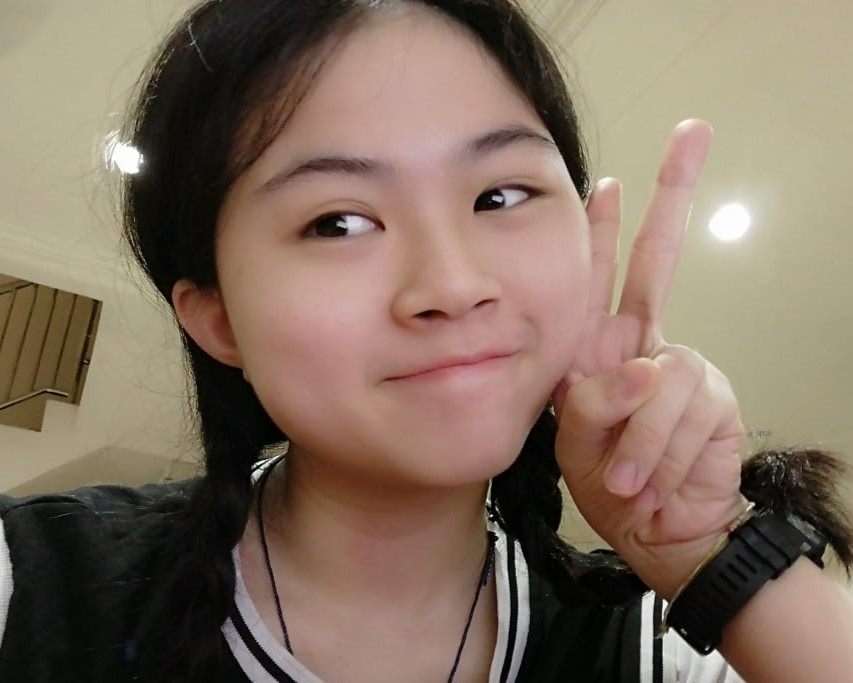
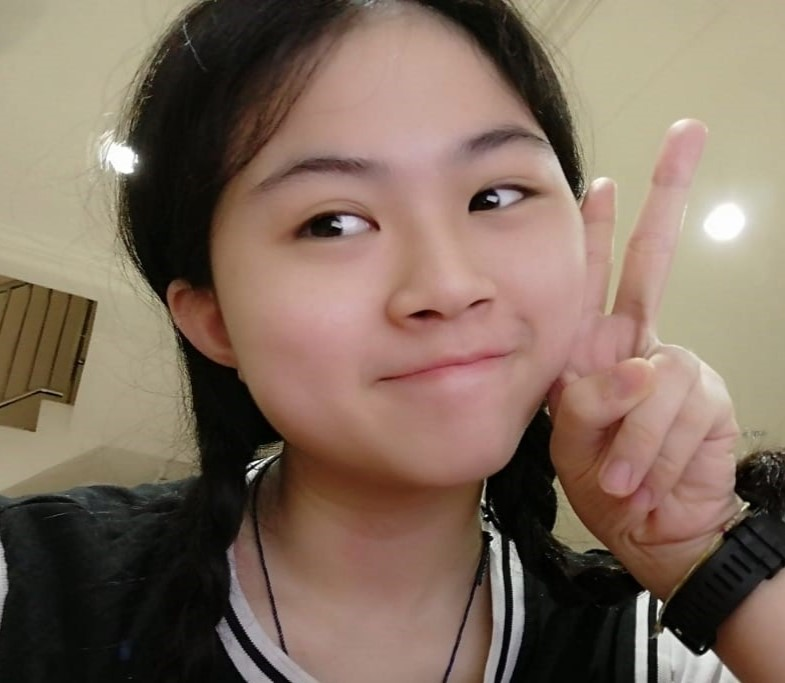
okay

diff --git a/html/lessons/instructors.html b/html/lessons/instructors.html
@@ -117,7 +117,7 @@
 
             <div class="instructor">
                 <div class="instructor-image">
-                    <img src="../../images/user.png" alt="Clarist">
+                    <img src="../../images/Clarist.jpeg" alt="Clarist" style="height: 95%;width: 90%;">
                 </div>
                 <div class="instructor-intro">
                     <h1>Clarist</h1>
@@ -143,7 +143,7 @@
 
             <div class="instructor">
                 <div class="instructor-image">
-                    <img src="../../images/Eve.jpeg" alt="Eve" style="height: 90%;width: 90%;">
+                    <img src="../../images/Eve.jpeg" alt="Eve" style="height: 95%;width: 90%;">
                 </div>
                 <div class="instructor-intro">
                     <h1>Eve</h1>
